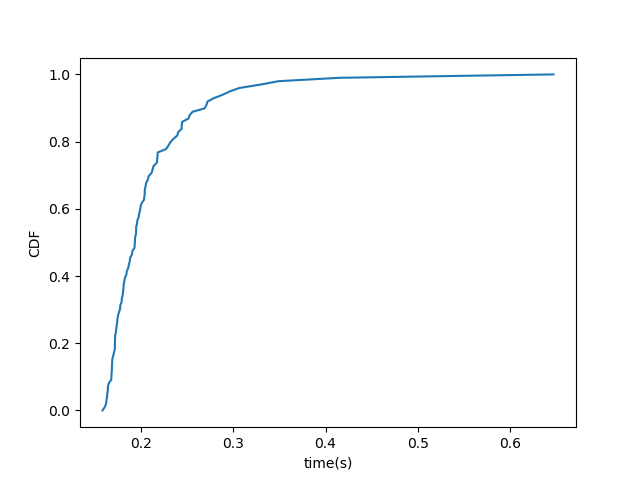
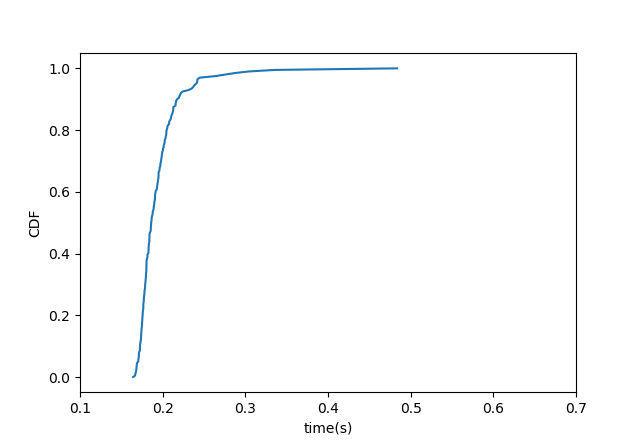
add comments

diff --git a/actor/actor_rpc.py b/actor/actor_rpc.py
@@ -313,16 +313,10 @@ class Actor():
             # Create build context tarfile
             with tarfile.TarFile(fileobj=context_file, mode="w") as context_tar:
                 context_tar.add(model_path)
-                # context_tar.addfile(tarfile.TarInfo(prediction_file), open(prediction_file))
-                # context_tar.addfile(tarfile.TarInfo("__init__.py"), open("__init__.py"))
-                # context_tar.addfile(tarfile.TarInfo("pytorch_utils.py"), open("pytorch_utils.py"))
-                # context_tar.addfile(tarfile.TarInfo("container_rpc.py"), open("container_rpc.py"))
                 try:
                     df_contents = StringIO(
                         str.encode(
-                            #"FROM {container_name}\n{run_command}\n COPY {prediction_file} __init__.py pytorch_utils.py container_rpc.py /model/\n WORKDIR /model\n EXPOSE {port}\n CMD [ \"python3\", \"./{prediction_file}\" ]".
                             "FROM {container_name}\n{run_command}\n COPY {model_path} /model\n WORKDIR /model\n EXPOSE {port}\n CMD [ \"python3\", \"./{prediction_file}\" ]".
-                            #"FROM {container_name}\n{run_command}\n COPY [ \"{prediction_file}\", \"__init__.py\", \"pytorch_utils.py\", \"container_rpc.py\", \"/model/\" ]\n WORKDIR /model\n EXPOSE {port}\n CMD [ \"python3\", \"./{prediction_file}\" ]".
                             format(
                                 container_name=base_image,
                                 model_path=model_path,
@@ -360,7 +354,7 @@ class Actor():
     def run_container(self, docker_client, image, detach=True, cmd=None, name=None, ports=None,
                     labels=None, environment=None, log_config=None, volumes=None,
                     user=None):
-        return docker_client.containers.run(
+        self.container = docker_client.containers.run(
             image,
             detach=True,
             command=cmd,
@@ -371,6 +365,9 @@ class Actor():
             volumes=volumes,
             user=user,
             log_config=log_config)
+
+    def stop_container(self):
+        self.container.stop()
 
     def validate_rpc_version(self, received_version):
         if received_version != RPC_VERSION:
@@ -466,25 +463,13 @@ class Actor():
             recv_time = (t3 - t2).total_seconds()
             # print("send: %f s, recv: %f s" %
                               # (send_time, recv_time))
-            print("\nOUTPUTS:")
-            print('\n'.join(outputs))
+                              
             return outputs, num_outputs
         else:
             print("Wrong message type %d, should be container content msg" % msg_type)
             raise
 
     def recv_outputs_content(self, num_outputs, output_sizes):
-        # # Create an empty numpy array that will contain
-        # # output string references
-        # outputs = [np.empty(num_outputs, dtype=object)]
-        # for i in range(num_outputs):
-        #     # Obtain a memoryview of the received message's
-        #     # ZMQ frame buffer
-        #     output_item_buffer = socket.recv(copy=False).buffer
-        #     # Copy the memoryview content into a string object
-        #     output_str = output_item_buffer.tobytes()
-        #     outputs[i] = output_str
-
         outputs = []
         for i in range(num_outputs):
             output_str = self.socket.recv_string()
@@ -561,77 +546,6 @@ class Actor():
             print("Wrong message type %d, should be new container msg" % msg_type)
             raise
 
-    def recv_string_content(self, num_inputs, input_sizes):
-        # Create an empty numpy array that will contain
-        # input string references
-        inputs = np.empty(num_inputs, dtype=object)
-        for i in range(num_inputs):
-            # Obtain a memoryview of the received message's
-            # ZMQ frame buffer
-            input_item_buffer = self.socket.recv(copy=False).buffer
-            # Copy the memoryview content into a string object
-            input_str = input_item_buffer.tobytes()
-            inputs[i] = input_str
-
-        return inputs
-
-    def recv_primitive_content(self, num_inputs, input_sizes,
-                               input_dtype):
-        def recv_different_lengths():
-            # Create an empty numpy array that will contain
-            # input array references
-            inputs = np.empty(num_inputs, dtype=object)
-            for i in range(num_inputs):
-                # Receive input data and copy it into a byte
-                # buffer that can be parsed into a writeable
-                # array
-                input_item_buffer = self.socket.recv(copy=True)
-                input_item = np.frombuffer(
-                    input_item_buffer, dtype=input_dtype)
-                inputs[i] = input_item
-
-            return inputs
-
-        def recv_same_lengths():
-            input_type_size_bytes = input_dtype.itemsize
-            input_content_size_bytes = sum(input_sizes)
-            typed_input_content_size = int(
-                input_content_size_bytes / input_type_size_bytes)
-
-            if len(self.input_content_buffer) < input_content_size_bytes:
-                self.input_content_buffer = bytearray(
-                    input_content_size_bytes * 2)
-
-            input_content_view = memoryview(
-                self.input_content_buffer)[:input_content_size_bytes]
-
-            item_start_idx = 0
-            for i in range(num_inputs):
-                input_size = input_sizes[i]
-                # Obtain a memoryview of the received message's
-                # ZMQ frame buffer
-                input_item_buffer = self.socket.recv(copy=False).buffer
-                # Copy the memoryview content into a pre-allocated content buffer
-                input_content_view[item_start_idx:item_start_idx +
-                                   input_size] = input_item_buffer
-                item_start_idx += input_size
-
-            # Reinterpret the content buffer as a typed numpy array
-            inputs = np.frombuffer(
-                self.input_content_buffer,
-                dtype=input_dtype)[:typed_input_content_size]
-
-            # All inputs are of the same size, so we can use
-            # np.reshape to construct an input matrix
-            inputs = np.reshape(inputs, (len(input_sizes), -1))
-
-            return inputs
-
-        if len(set(input_sizes)) == 1:
-            return recv_same_lengths()
-        else:
-            return recv_different_lengths()
-
 class RPCService:
     def get_event_history(self):
         if self.actor:
@@ -670,10 +584,10 @@ class RPCService:
                 container_registry=None,
                 pkgs_to_install=None)
 
-    def run_container(self, docker_client, image, detach=True, cmd=None, name=None, ports=None,
+    def run_container(self, docker_client, image, name=None, detach=True, cmd=None, ports=None,
                     labels=None, environment=None, log_config=None, volumes=None,
                     user=None):
-        return self.actor.run_container(
+        self.actor.run_container(
                 docker_client,
                 image,
                 detach=True,
@@ -685,3 +599,6 @@ class RPCService:
                 volumes=volumes,
                 user=user,
                 log_config=log_config)
+
+    def stop_container(self):
+        self.actor.stop_container()

diff --git a/actor/actor_test.py b/actor/actor_test.py
@@ -13,11 +13,13 @@ if __name__ == "__main__":
     print("Starting RPC actor..")
     sys.stdout.flush()
     sys.stderr.flush()
-    rpc_service = actor_rpc.RPCService()
+
     # start rpc service
+    rpc_service = actor_rpc.RPCService()
     port = 7000
     rpc_service.start(port)
 
+    # deploy container
     print("Building and Deploying Container")
     name = "pytorch_container"
     version = 1
@@ -39,34 +41,47 @@ if __name__ == "__main__":
     rpc_service.run_container(docker_client, image, detach=True, ports=ports)
     print("{} is is running..".format(name))
 
+    # connect to container
     print("Connecting to conatiner...")
-    #connect to container
     rpc_service.connect_to_container()
 
-    print("\nSending a request with inputs: dog.jpg, cat.jpg")
     # send first request
+    print("\nSending a request with inputs: dog.jpg, cat.jpg")
     input_type = "imgs"
     img1 = base64.b64encode(open("images/dog.jpg", "rb").read())
     img2 = base64.b64encode(open("images/cat.jpg", "rb").read())
 
     inputs = [img1, img2]
-    num_outputs, outputs = rpc_service.send_prediction_request(input_type, inputs)
+    outputs, num_outputs = rpc_service.send_prediction_request(input_type, inputs)
 
-    print("Sending 100 request to plot cdf..")
-    time_arr = []
-    inputs = [img1]
-    for i in range(100):
-        t1 = datetime.now()
-        num_outputs, outputs = rpc_service.send_prediction_request(input_type, inputs)
-        t2 = datetime.now()
-        time = (t2 - t1).total_seconds()
-        time_arr.append(time)
+    print("\nOUTPUTS:")
+    print('\n'.join(outputs))
 
-    sorted_data = np.sort(time_arr)
-    yvals=np.arange(len(sorted_data))/float(len(sorted_data)-1)
+    # stop contaienr
+    print("\nStopping container..")
+    rpc_service.stop_container()
+    print("Successfully quit")
 
-    plt.xlabel('time(s)')
-    plt.ylabel('CDF')
-    plt.plot(sorted_data,yvals)
+    # print("\nSending 200 request to plot cdf..")
+    # time_arr = []
+    # inputs = [img1]
+    # for i in range(200):
+    #     t1 = datetime.now()
+    #     num_outputs, outputs = rpc_service.send_prediction_request(input_type, inputs)
+    #     t2 = datetime.now()
+    #     latency = (t2 - t1).total_seconds()
+    #     time_arr.append(latency)
+    #     time.sleep(0.01)
 
-    plt.show()
+    # sorted_data = np.sort(time_arr)
+    # yvals=np.arange(len(sorted_data))/float(len(sorted_data)-1)
+
+    # axes = plt.gca()
+    # xmin = 0.1
+    # xmax = 0.7
+    # axes.set_xlim([xmin,xmax])
+    # plt.xlabel('time(s)')
+    # plt.ylabel('CDF')
+    # plt.plot(sorted_data,yvals)
+
+    # plt.show()

diff --git a/actor/pytorch_container/container_rpc.py b/actor/pytorch_container/container_rpc.py
@@ -230,37 +230,9 @@ class Server():
 
         while True:
             socket = self.context.socket(zmq.REQ)
-            # poller.register(socket, zmq.POLLIN)
             socket.bind(clipper_address)
             self.send_heartbeat(socket)
             while True:
-            #     receivable_sockets = dict(
-            #         poller.poll(SOCKET_POLLING_TIMEOUT_MILLIS))
-            #     if socket not in receivable_sockets or receivable_sockets[socket] != zmq.POLLIN:
-            #         # Failed to receive a message before the specified polling timeout
-            #         if connected:
-            #             curr_time = datetime.now()
-            #             time_delta = curr_time - last_activity_time_millis
-            #             time_delta_millis = (time_delta.seconds * 1000) + (
-            #                 time_delta.microseconds / 1000)
-            #             if time_delta_millis >= SOCKET_ACTIVITY_TIMEOUT_MILLIS:
-            #                 # Terminate the session
-            #                 print("Connection timed out, reconnecting...")
-            #                 connected = False
-            #                 poller.unregister(socket)
-            #                 socket.close()
-            #                 break
-            #             else:
-            #                 self.send_heartbeat(socket)
-            #             sys.stdout.flush()
-            #             sys.stderr.flush()
-            #         continue
-
-                # Received a message before the polling timeout
-                # if not connected:
-                #     connected = True
-                # last_activity_time_millis = datetime.now()
-
                 t1 = datetime.now()
                 # Receive delimiter between routing identity and content
                 socket.recv()

diff --git a/README.md b/README.md
@@ -1,6 +1,11 @@
 # rpc
 A workplace for developing rpc communication service between server and containers
 
+# pull base image from docker hub
+```
+docker pull alice97/serve-base
+```
+
 # start container and send request
 ```
 cd actor
